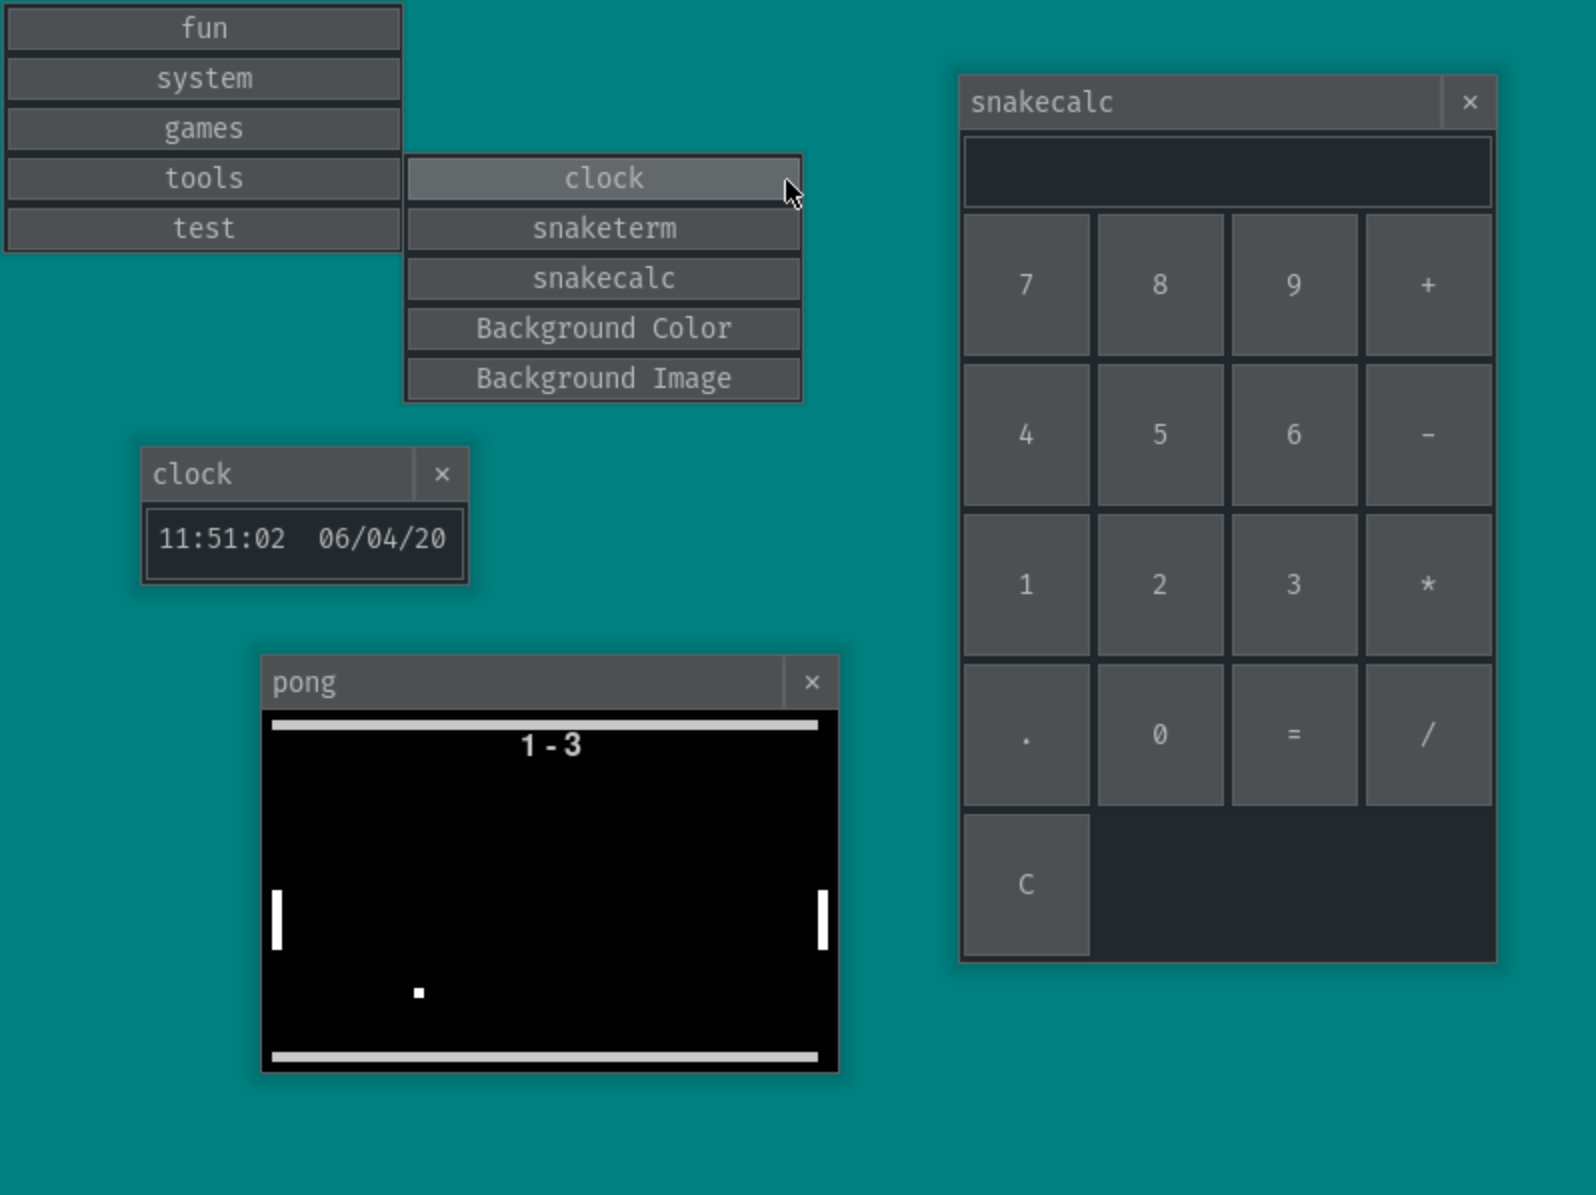
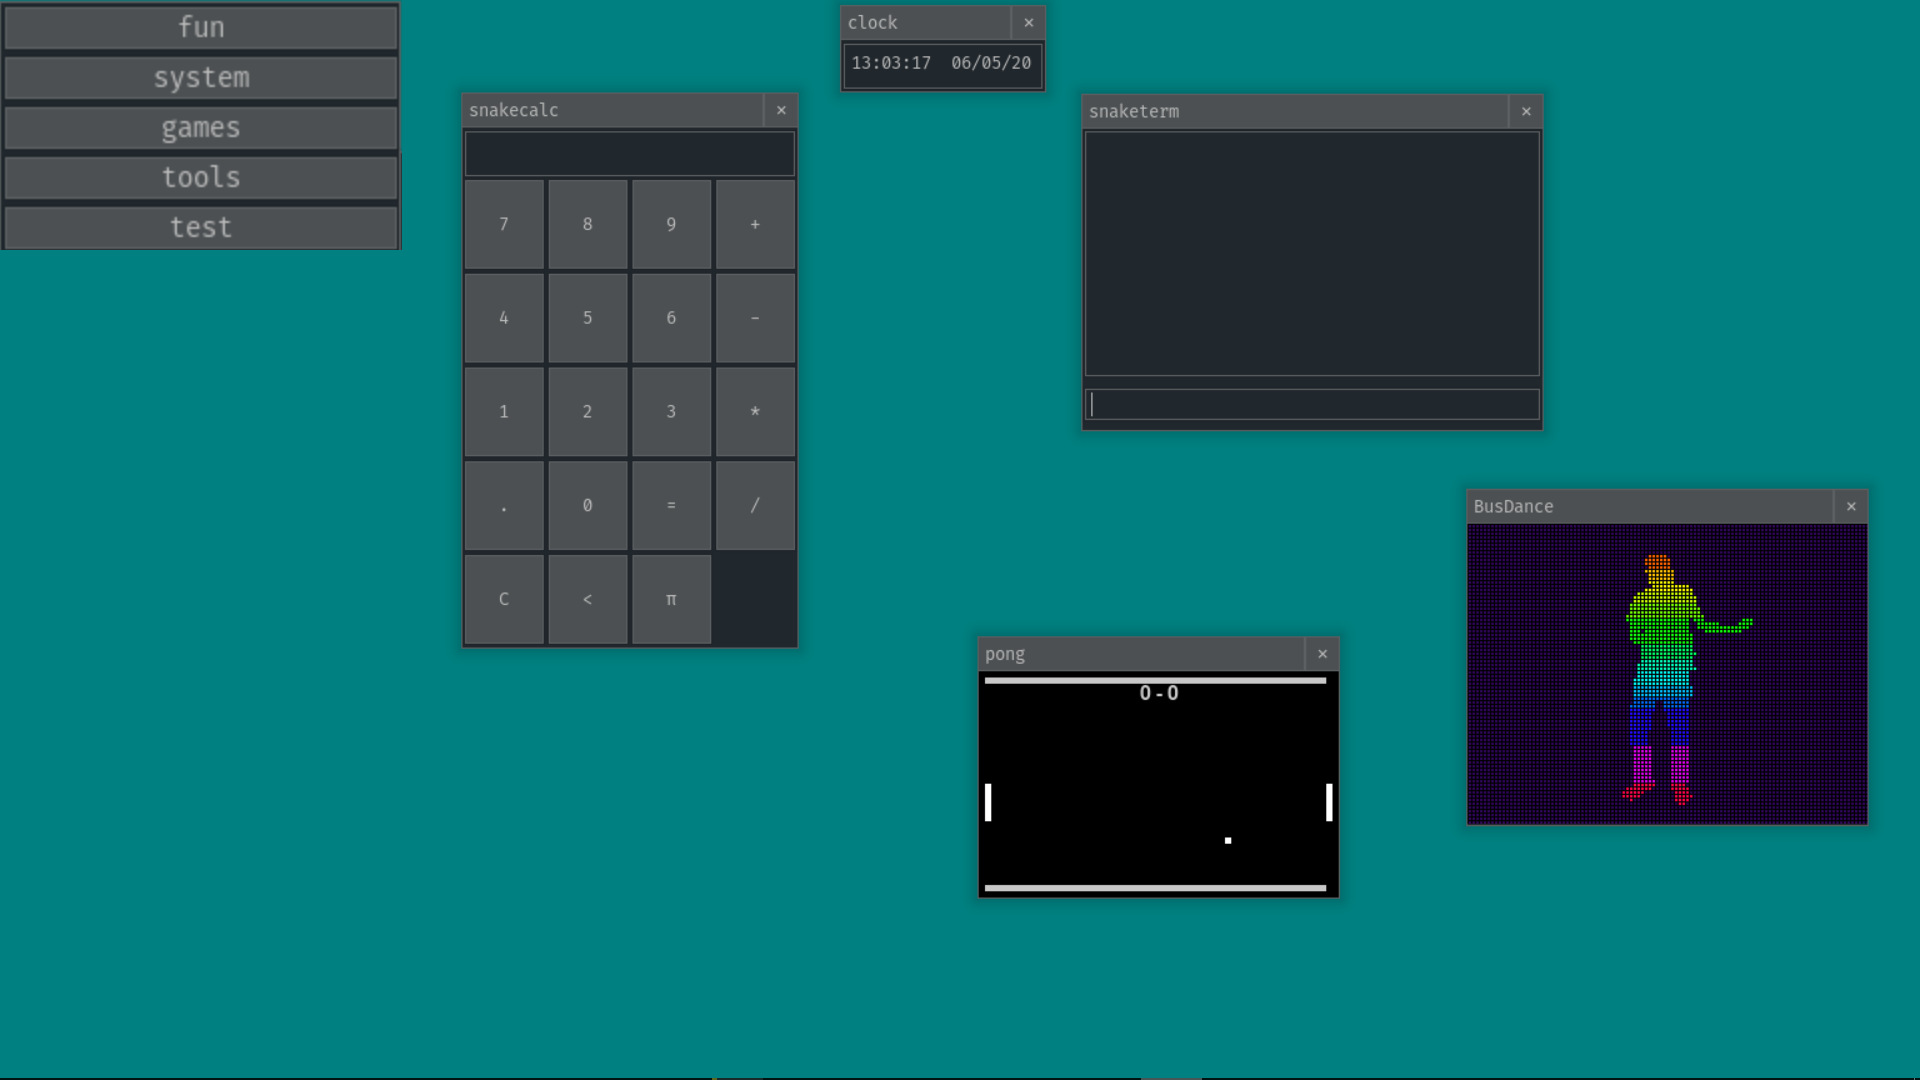
Added pie button to the snakecalc and updated the screenshot image

diff --git a/snakewm/apps/tools/snakecalc/calc.py b/snakewm/apps/tools/snakecalc/calc.py
@@ -4,7 +4,7 @@ import pygame_gui
 
 class SnakeCalc(pygame_gui.elements.UIWindow):
     # operations to be converted to buttons
-    OPS = "789+" "456-" "123*" "p0=/" "C<"
+    OPS = "789+" "456-" "123*" "p0=/" "C<π"
 
     # button dimensions
     BSIZE = (67, 75)
@@ -43,7 +43,8 @@ class SnakeCalc(pygame_gui.elements.UIWindow):
 
             pygame_gui.elements.UIButton(
                 relative_rect=pygame.Rect(
-                    (i % 4 * self.BSIZE[0], 40 + int(i / 4) * self.BSIZE[1]), self.BSIZE
+                    (i % 4 * self.BSIZE[0], 40 + int(i / 4)
+                     * self.BSIZE[1]), self.BSIZE
                 ),
                 text="." if op == "p" else op,
                 manager=manager,
@@ -94,5 +95,7 @@ class SnakeCalc(pygame_gui.elements.UIWindow):
                 self.append_text(".")
             elif op == "<":
                 self.set_text(self.textbox.html_text[:-1])
+            elif op == "π":
+                self.set_text("3.14")
             else:
                 self.append_text(op)
